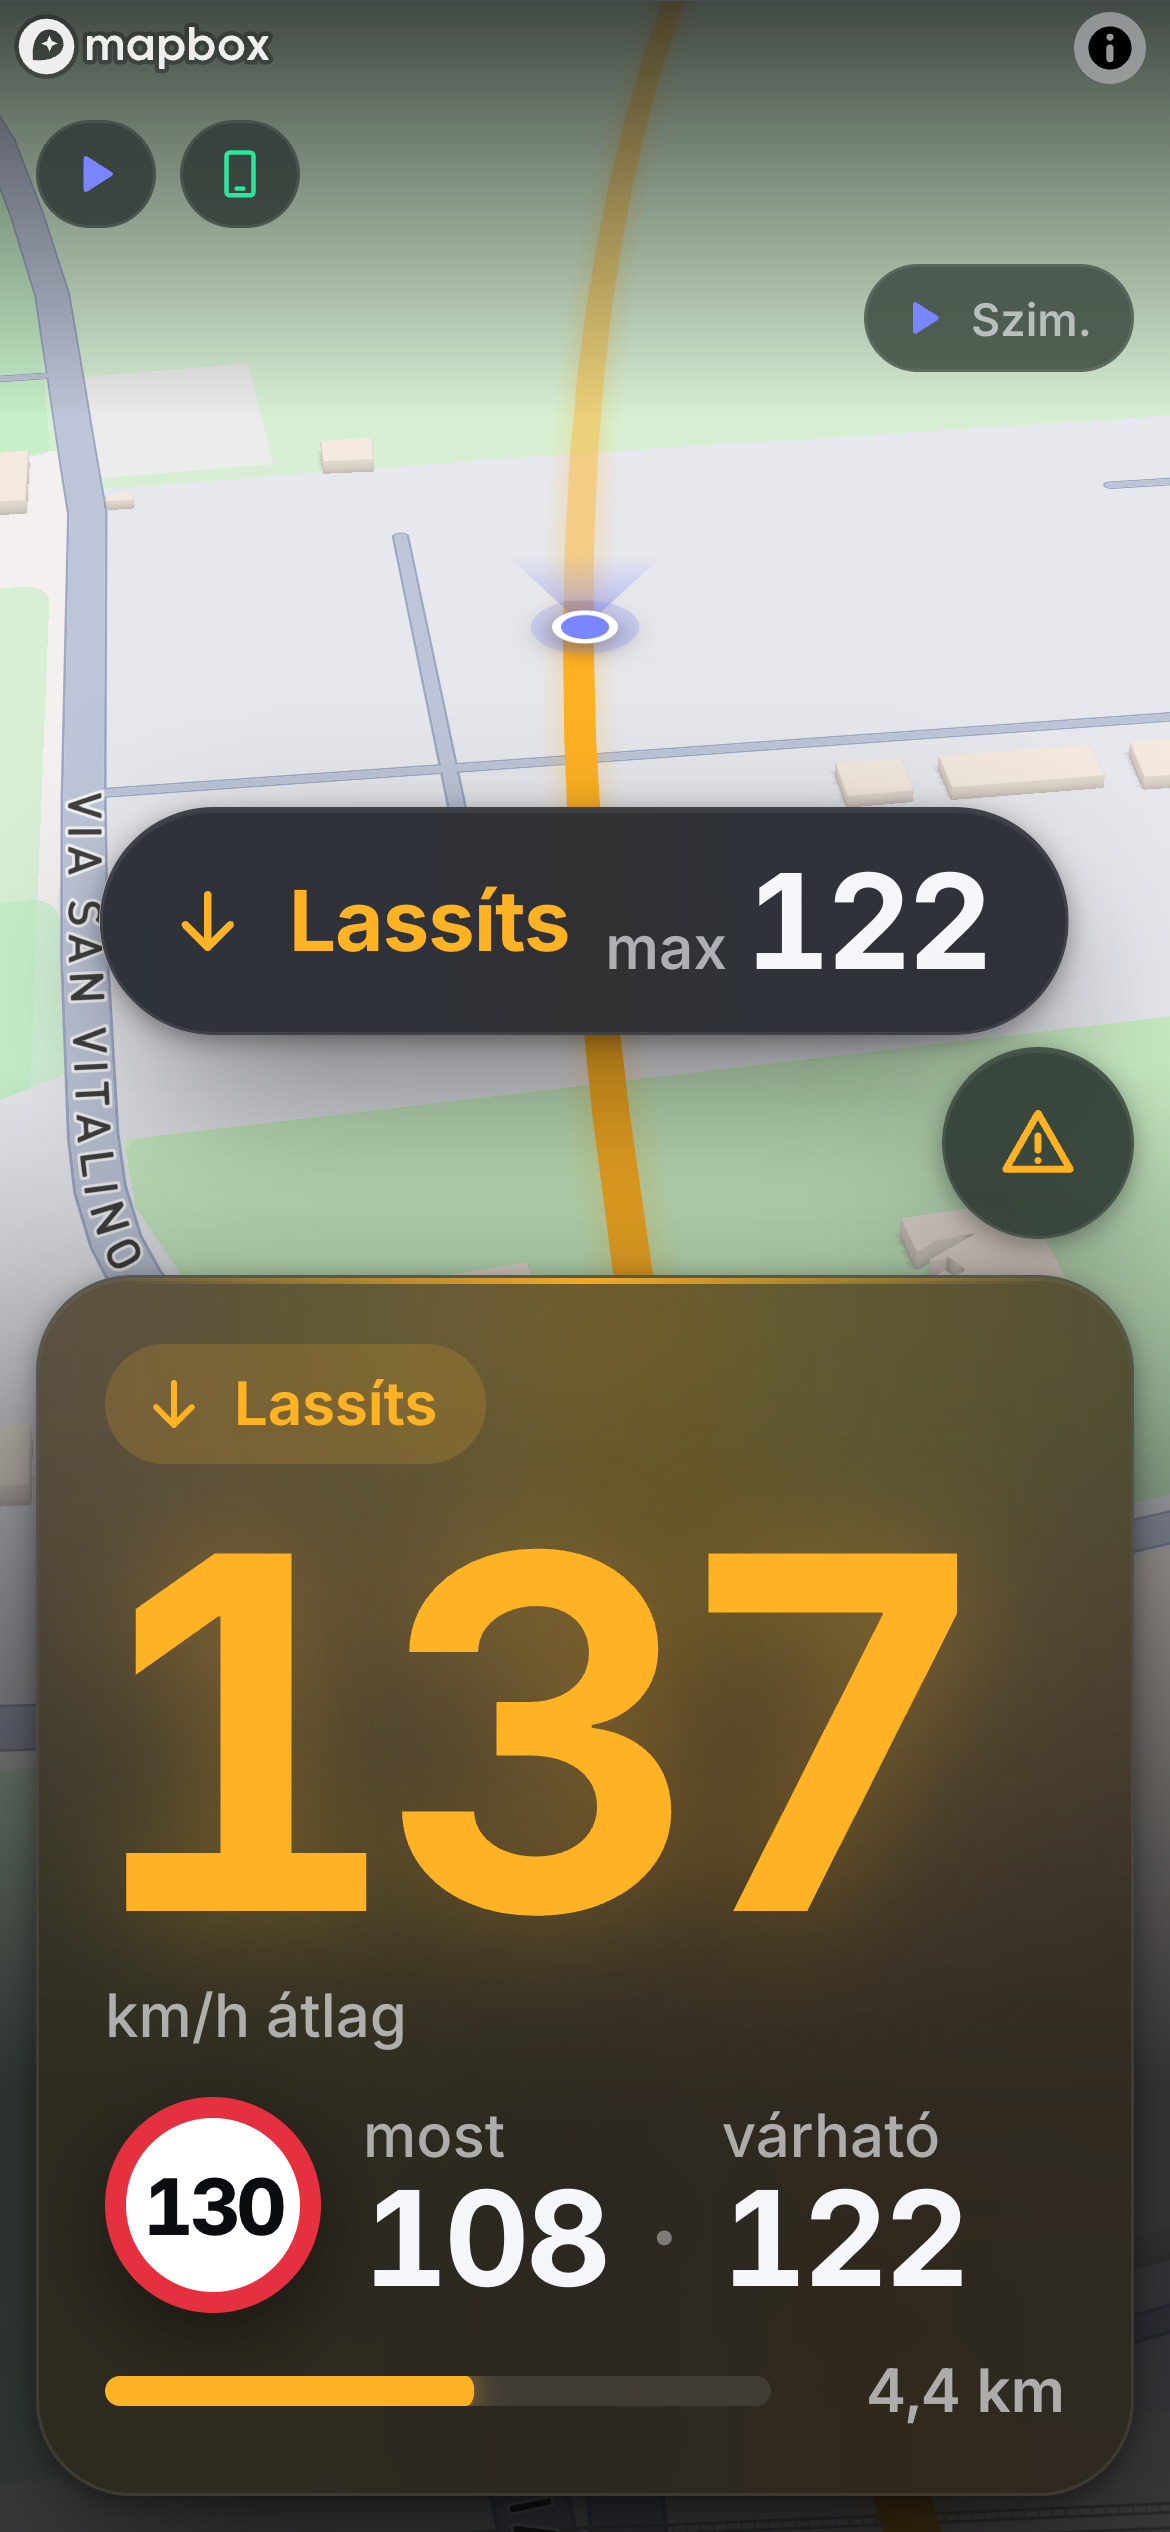
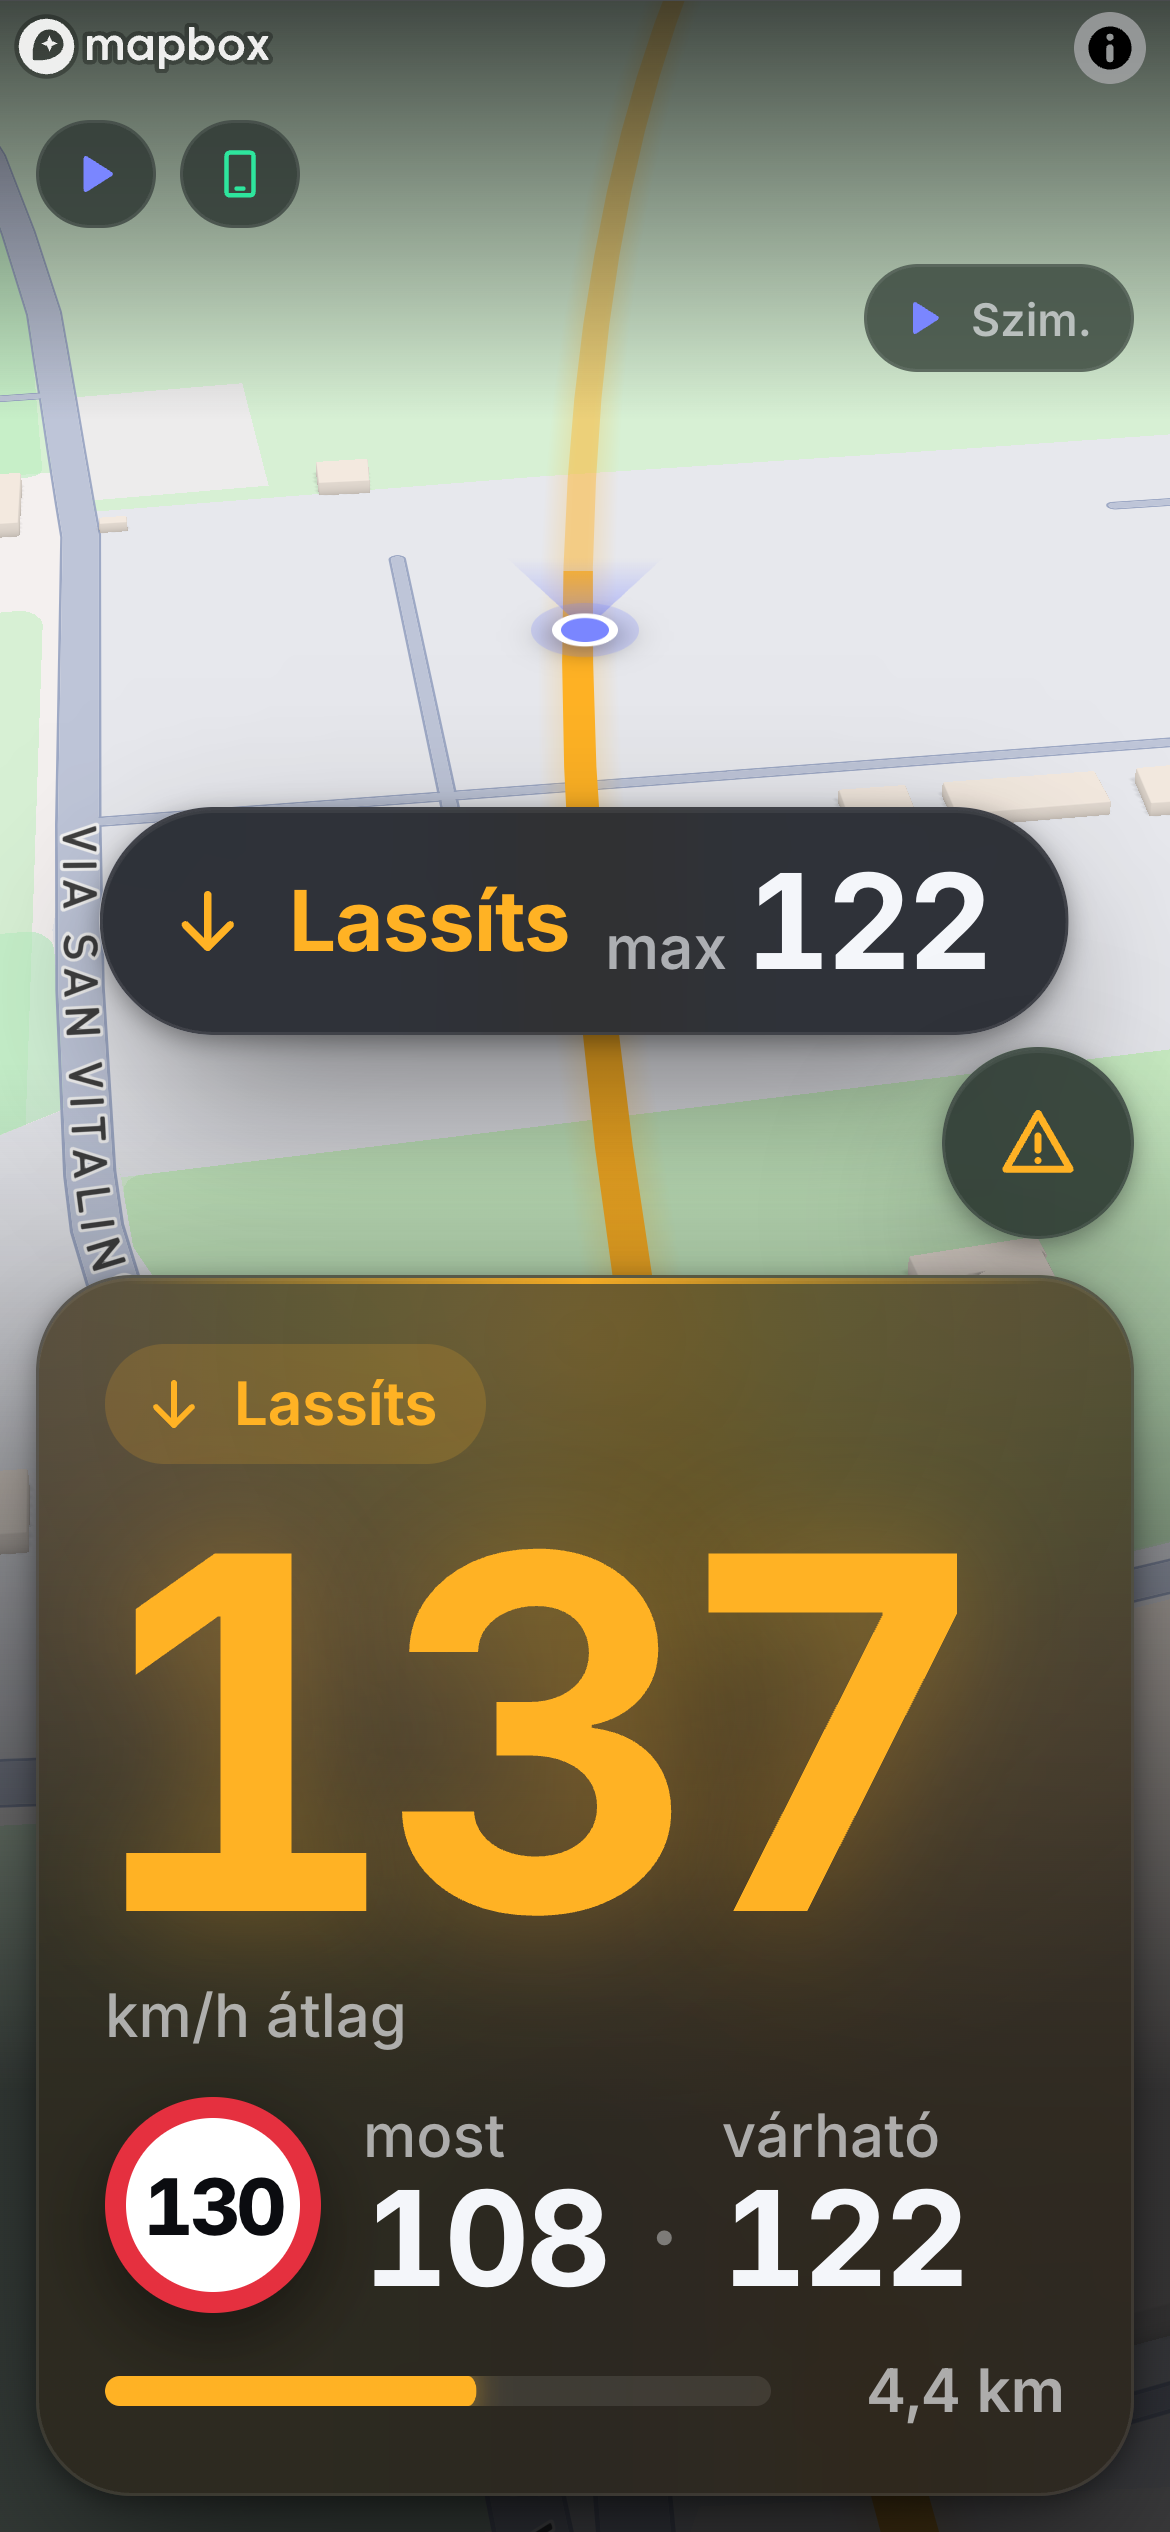
A7b: tűrés a határ-tábla alatt, a „most” borostyán a határ felett; képernyőképek frissítve

diff --git a/apps/web/src/ui/Hud.tsx b/apps/web/src/ui/Hud.tsx
@@ -9,7 +9,7 @@ import {
   type Settings,
   type SpeedStatus,
 } from '@atlagsebesseg/app-logic';
-import { meterBar, type MeterBar, type Section } from '@atlagsebesseg/core';
+import { limitWithToleranceKmh, meterBar, type MeterBar, type Section } from '@atlagsebesseg/core';
 import { useEffect, useRef, useState, type CSSProperties, type ReactNode } from 'react';
 import { Icon, type IconName } from './Icon';
 import { LimitSign } from './LimitSign';
@@ -113,10 +113,16 @@ export function Hud(p: HudProps) {
           <Hero value={speedIn(live.averageKmh, unit)} />
           <div className="body muted hero-unit">{u} átlag</div>
           <div className="meter-line">
-            <LimitSign kmh={s.speedLimitKmh} unit={unit} small />
+            <div className="sign-col">
+              <LimitSign kmh={s.speedLimitKmh} unit={unit} small />
+              {settings.hatosagi_tures_megjelenitese && (
+                <div className="tolerance num">tűrés {speedIn(limitWithToleranceKmh(s.speedLimitKmh), unit)}</div>
+              )}
+            </div>
             <div className="meter-fig">
               <span className="body muted">most</span>
-              <b className="meter-num num">{speedIn(view.currentKmh, unit) ?? '–'}</b>
+              {/* az állapot nem változik: a „most” önállóan jelzi, ha a pillanatnyi sebesség a határ felett van */}
+              <b className="meter-num num" data-over={(view.currentKmh ?? 0) > s.speedLimitKmh}>{speedIn(view.currentKmh, unit) ?? '–'}</b>
             </div>
             <span className="meter-sep" aria-hidden="true">
               ·

diff --git a/apps/web/src/styles.css b/apps/web/src/styles.css
@@ -481,6 +481,18 @@ select:focus-visible {
   color: var(--color-text);
 }
 
+.meter-num[data-over='true'] {
+  color: var(--color-near);
+}
+
+.tolerance {
+  font-size: var(--type-body-size);
+  font-weight: 600;
+  line-height: 1.1;
+  color: var(--color-text-muted);
+  white-space: nowrap;
+}
+
 .meter-sep {
   align-self: flex-end;
   padding-bottom: 6px;

diff --git a/DESIGN.md b/DESIGN.md
@@ -69,7 +69,7 @@ biztonsági zóna fölött lebeg.
 - **HUD-kártya, mérés közben** (alul lebeg, A7b): chip (állapot) → hero szám (a pillanatnyi
   **átlag**) → alatta kicsiben „km/h átlag” → egy sor: **[határ-tábla] most 144 · várható 122**
   (a „most” a pillanatnyi GPS-sebesség; mindkét szám 44 px, tabular, 1,5 m-ről olvasható) →
-  progress + hátralévő táv. Más szám nem kerül a kártyára (a tűrés-kijelzés ezért kikerült).
+  progress + hátralévő táv. A „most” borostyán (`near`), ha a pillanatnyi sebesség a határ felett van – az állapot ettől nem változik (az átlag és a várható végső dönt). Ha a Beállításokban a tűrés-kijelzés be van kapcsolva, a határ-tábla alatt kicsiben „tűrés 136” (20 px). Más szám nem kerül a kártyára.
 - **Határ-tábla**: KRESZ-tábla stílusú kör, `title` méret.
 - **Állapot-pillek** (fent): GPS pontosság, kijelző ébren / elalhat, offline. Vezetés közben
   **csak ikonok** (szöveg nélkül). Koppinthatók, ha teendő van (pl. ébrentartás újrakérése).
